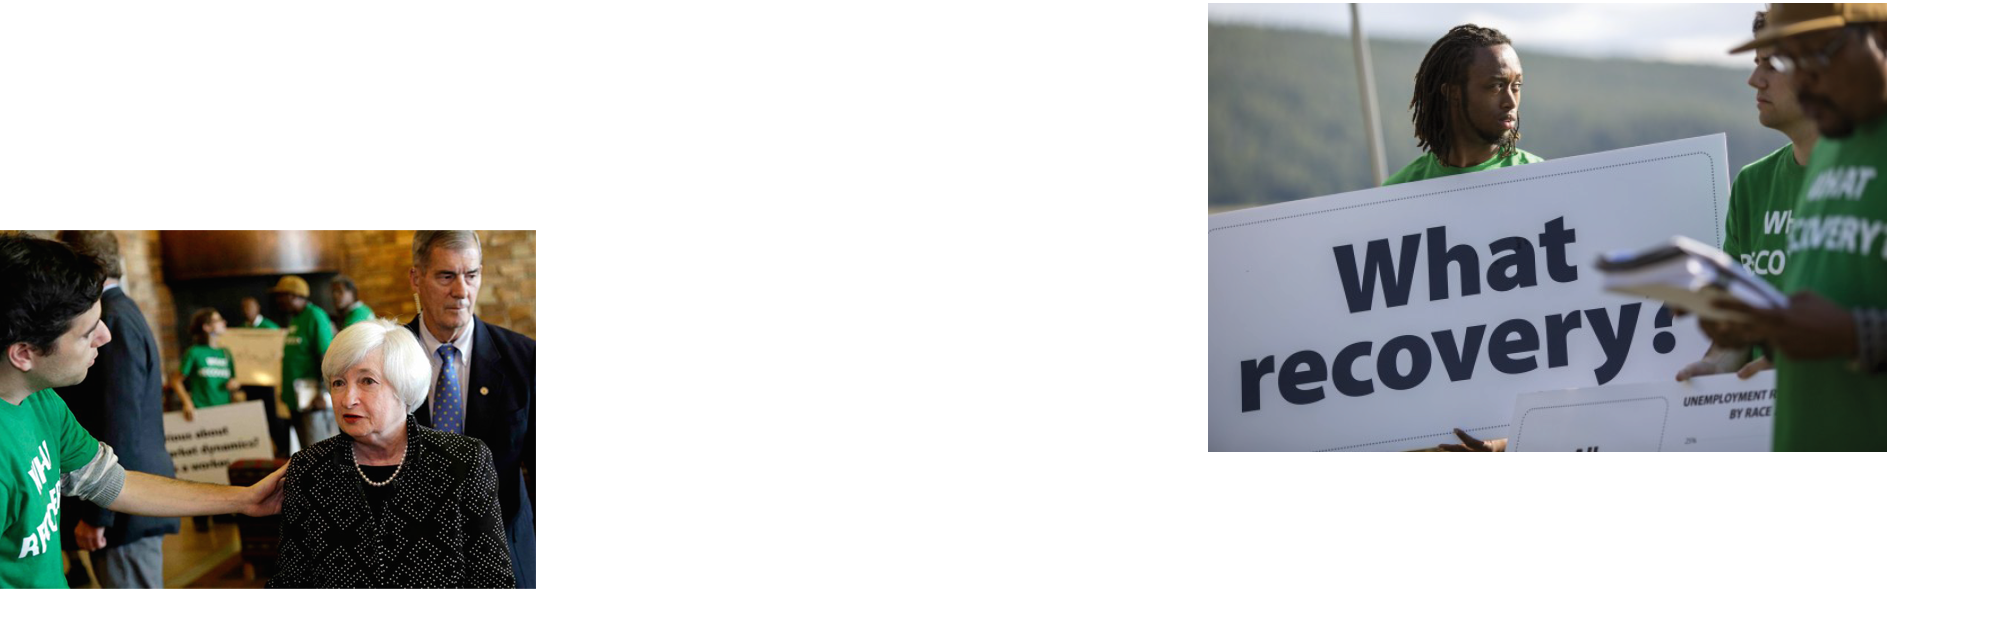
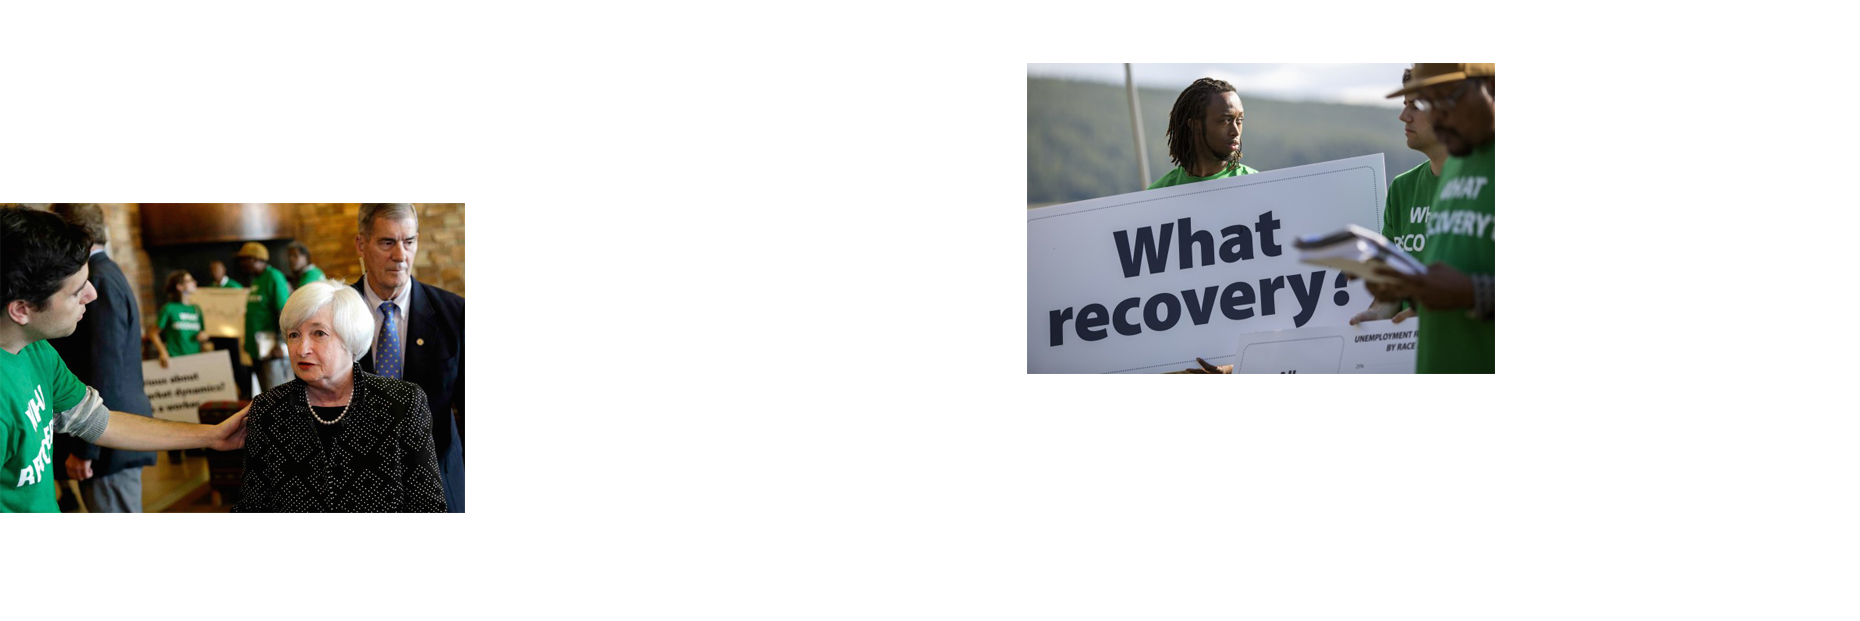
More tweaks

diff --git a/app/index.html b/app/index.html
@@ -86,8 +86,8 @@
 
 
     <section id="message3"
-      data-0="background-position: 40% 60%;"
-      data-top-bottom="background-position: 50% 40%;" >
+      data-0="background-position: 45% 78%;"
+      data-top-bottom="background-position: 55% 75%;" >
     <div class="container">
       <div class="row">
         <div class="bar"></div>
@@ -361,7 +361,6 @@
           <input class="input" placeholder="Your ZIP code" type="text" name="entry.334456600" value="" id="entry_334456600" dir="auto" aria-label="What's your zip code?  ">
 
             <input type="submit" name="submit" value="Join" id="ss-submit" class="submit-email jfk-button jfk-button-action ">
-          <!-- </div> -->
         </form>
 
       </div>
@@ -407,7 +406,7 @@
     <!-- build:js(.) scripts/vendor.js -->
     <!-- bower:js -->
     <script src="bower_components/jquery/dist/jquery.js"></script>
-    <script src="/bower_components/bower-skrollr/skrollr.js"></script>
+    <script src="bower_components/bower-skrollr/skrollr.js"></script>
     <!-- endbower -->
     <!-- endbuild -->
 

diff --git a/app/styles/sections.sass b/app/styles/sections.sass
@@ -38,6 +38,7 @@ section
 
   ul.demand-bullets
     margin-top: 20px
+    margin-left: -8px
     $li_height: 35px
     li
       min-height: $li_height
@@ -67,3 +68,5 @@ section#message3
   // background-position: -212px 45px
   // background-position: center
   background-repeat: no-repeat
+  .section-text
+    margin-bottom: 35px

diff --git a/app/html/google-form.html b/app/html/google-form.html
@@ -3,5 +3,4 @@
   <input class="input" placeholder="Your ZIP code" type="text" name="entry.334456600" value="" id="entry_334456600" dir="auto" aria-label="What's your zip code?  ">
 
     <input type="submit" name="submit" value="Join" id="ss-submit" class="submit-email jfk-button jfk-button-action ">
-  <!-- </div> -->
 </form>

diff --git a/app/html/message3.html b/app/html/message3.html
@@ -1,6 +1,6 @@
 <section id="message3"
-  data-0="background-position: 40% 60%;"
-  data-top-bottom="background-position: 50% 40%;" >
+  data-0="background-position: 45% 78%;"
+  data-top-bottom="background-position: 55% 75%;" >
 <div class="container">
   <div class="row">
     <div class="bar"></div>
